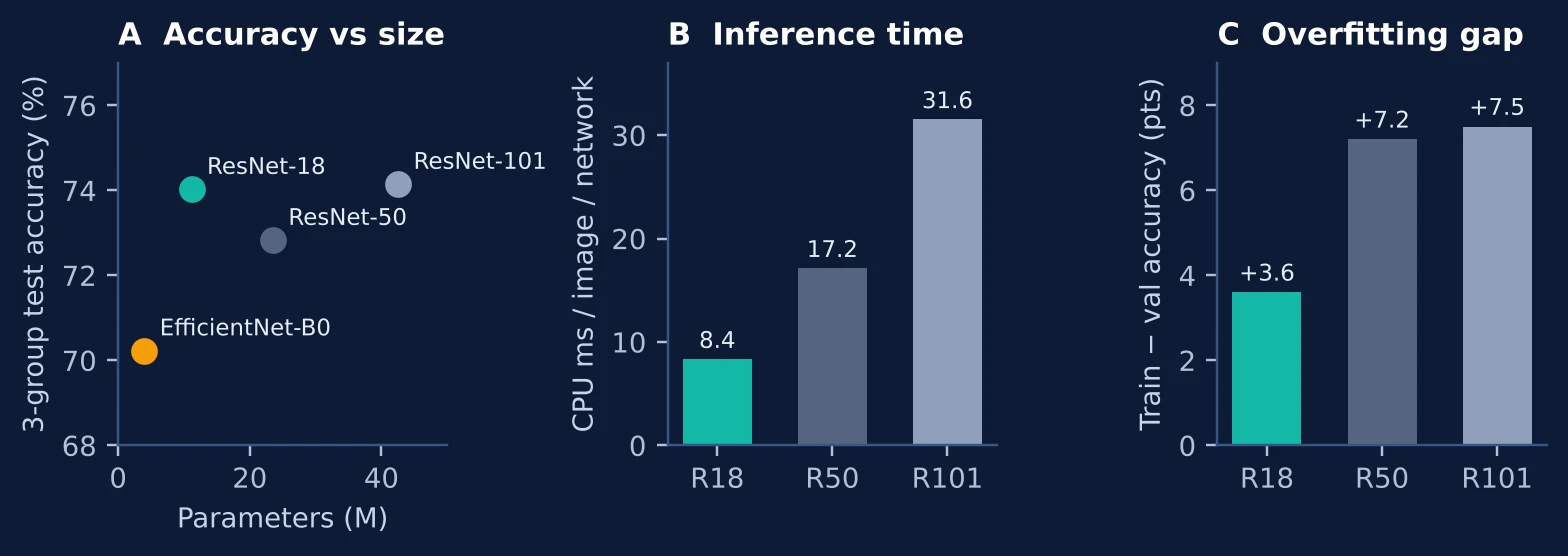
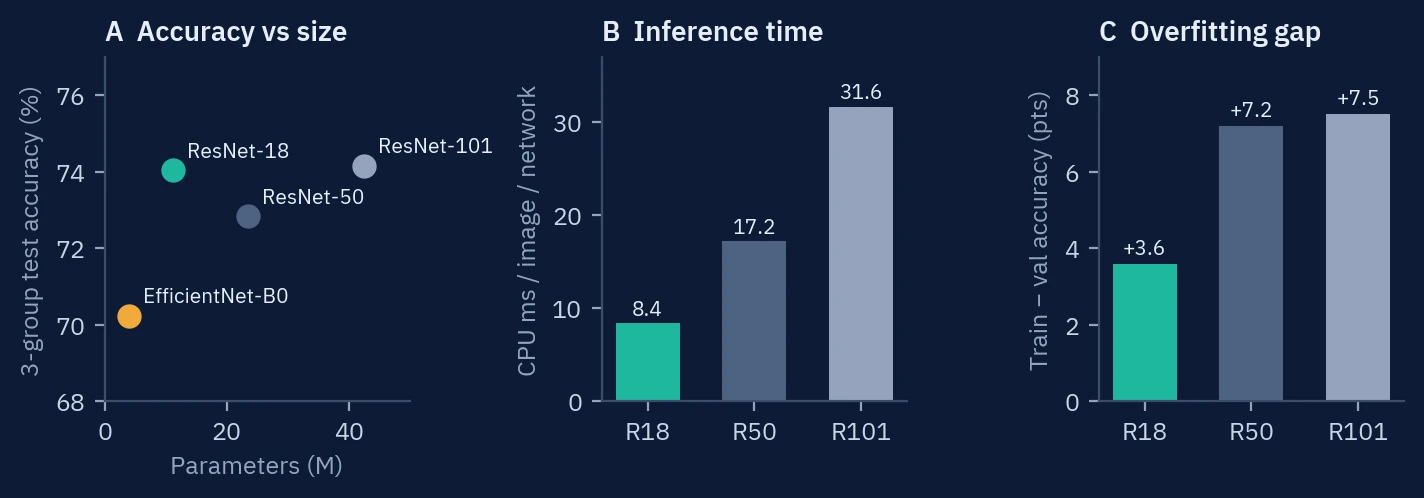
Regenerate figures from Web_DarkTheme as WebP (figs.py)

diff --git a/figs.py b/figs.py
@@ -1,0 +1,15 @@
+# Convert source PNGs to public/figs/<name>.webp (max 1800 px wide, q90, flattened on the site figure bg #0d1b36)
+# for every name in the FIGS list of src/App.jsx. Usage: python figs.py "<ADV_STU_B>/AT3 Report Figures/Web_DarkTheme"
+import sys, re, pathlib
+from PIL import Image
+src = pathlib.Path(sys.argv[1]); out = pathlib.Path('public/figs')
+block = pathlib.Path('src/App.jsx').read_text(encoding='utf-8').split('const FIGS = [')[1].split('\n];')[0]
+names = re.findall(r"\['[^']+', '([^']+)', '", block)
+have = {p.stem: p for p in src.glob('*.png')}
+for n in names:
+    if n not in have: print('FIGS entry with no source image:', n); continue
+    im = Image.open(have[n]).convert('RGBA')
+    bg = Image.new('RGBA', im.size, (13, 27, 54, 255)); bg.alpha_composite(im); im = bg.convert('RGB')
+    if im.width > 1800: im = im.resize((1800, round(im.height * 1800 / im.width)), Image.LANCZOS)
+    im.save(out / f'{n}.webp', 'WEBP', quality=90, method=6); print('ok', n, im.size)
+for n in sorted(set(have) - set(names)): print('Source image with no FIGS entry:', n)
